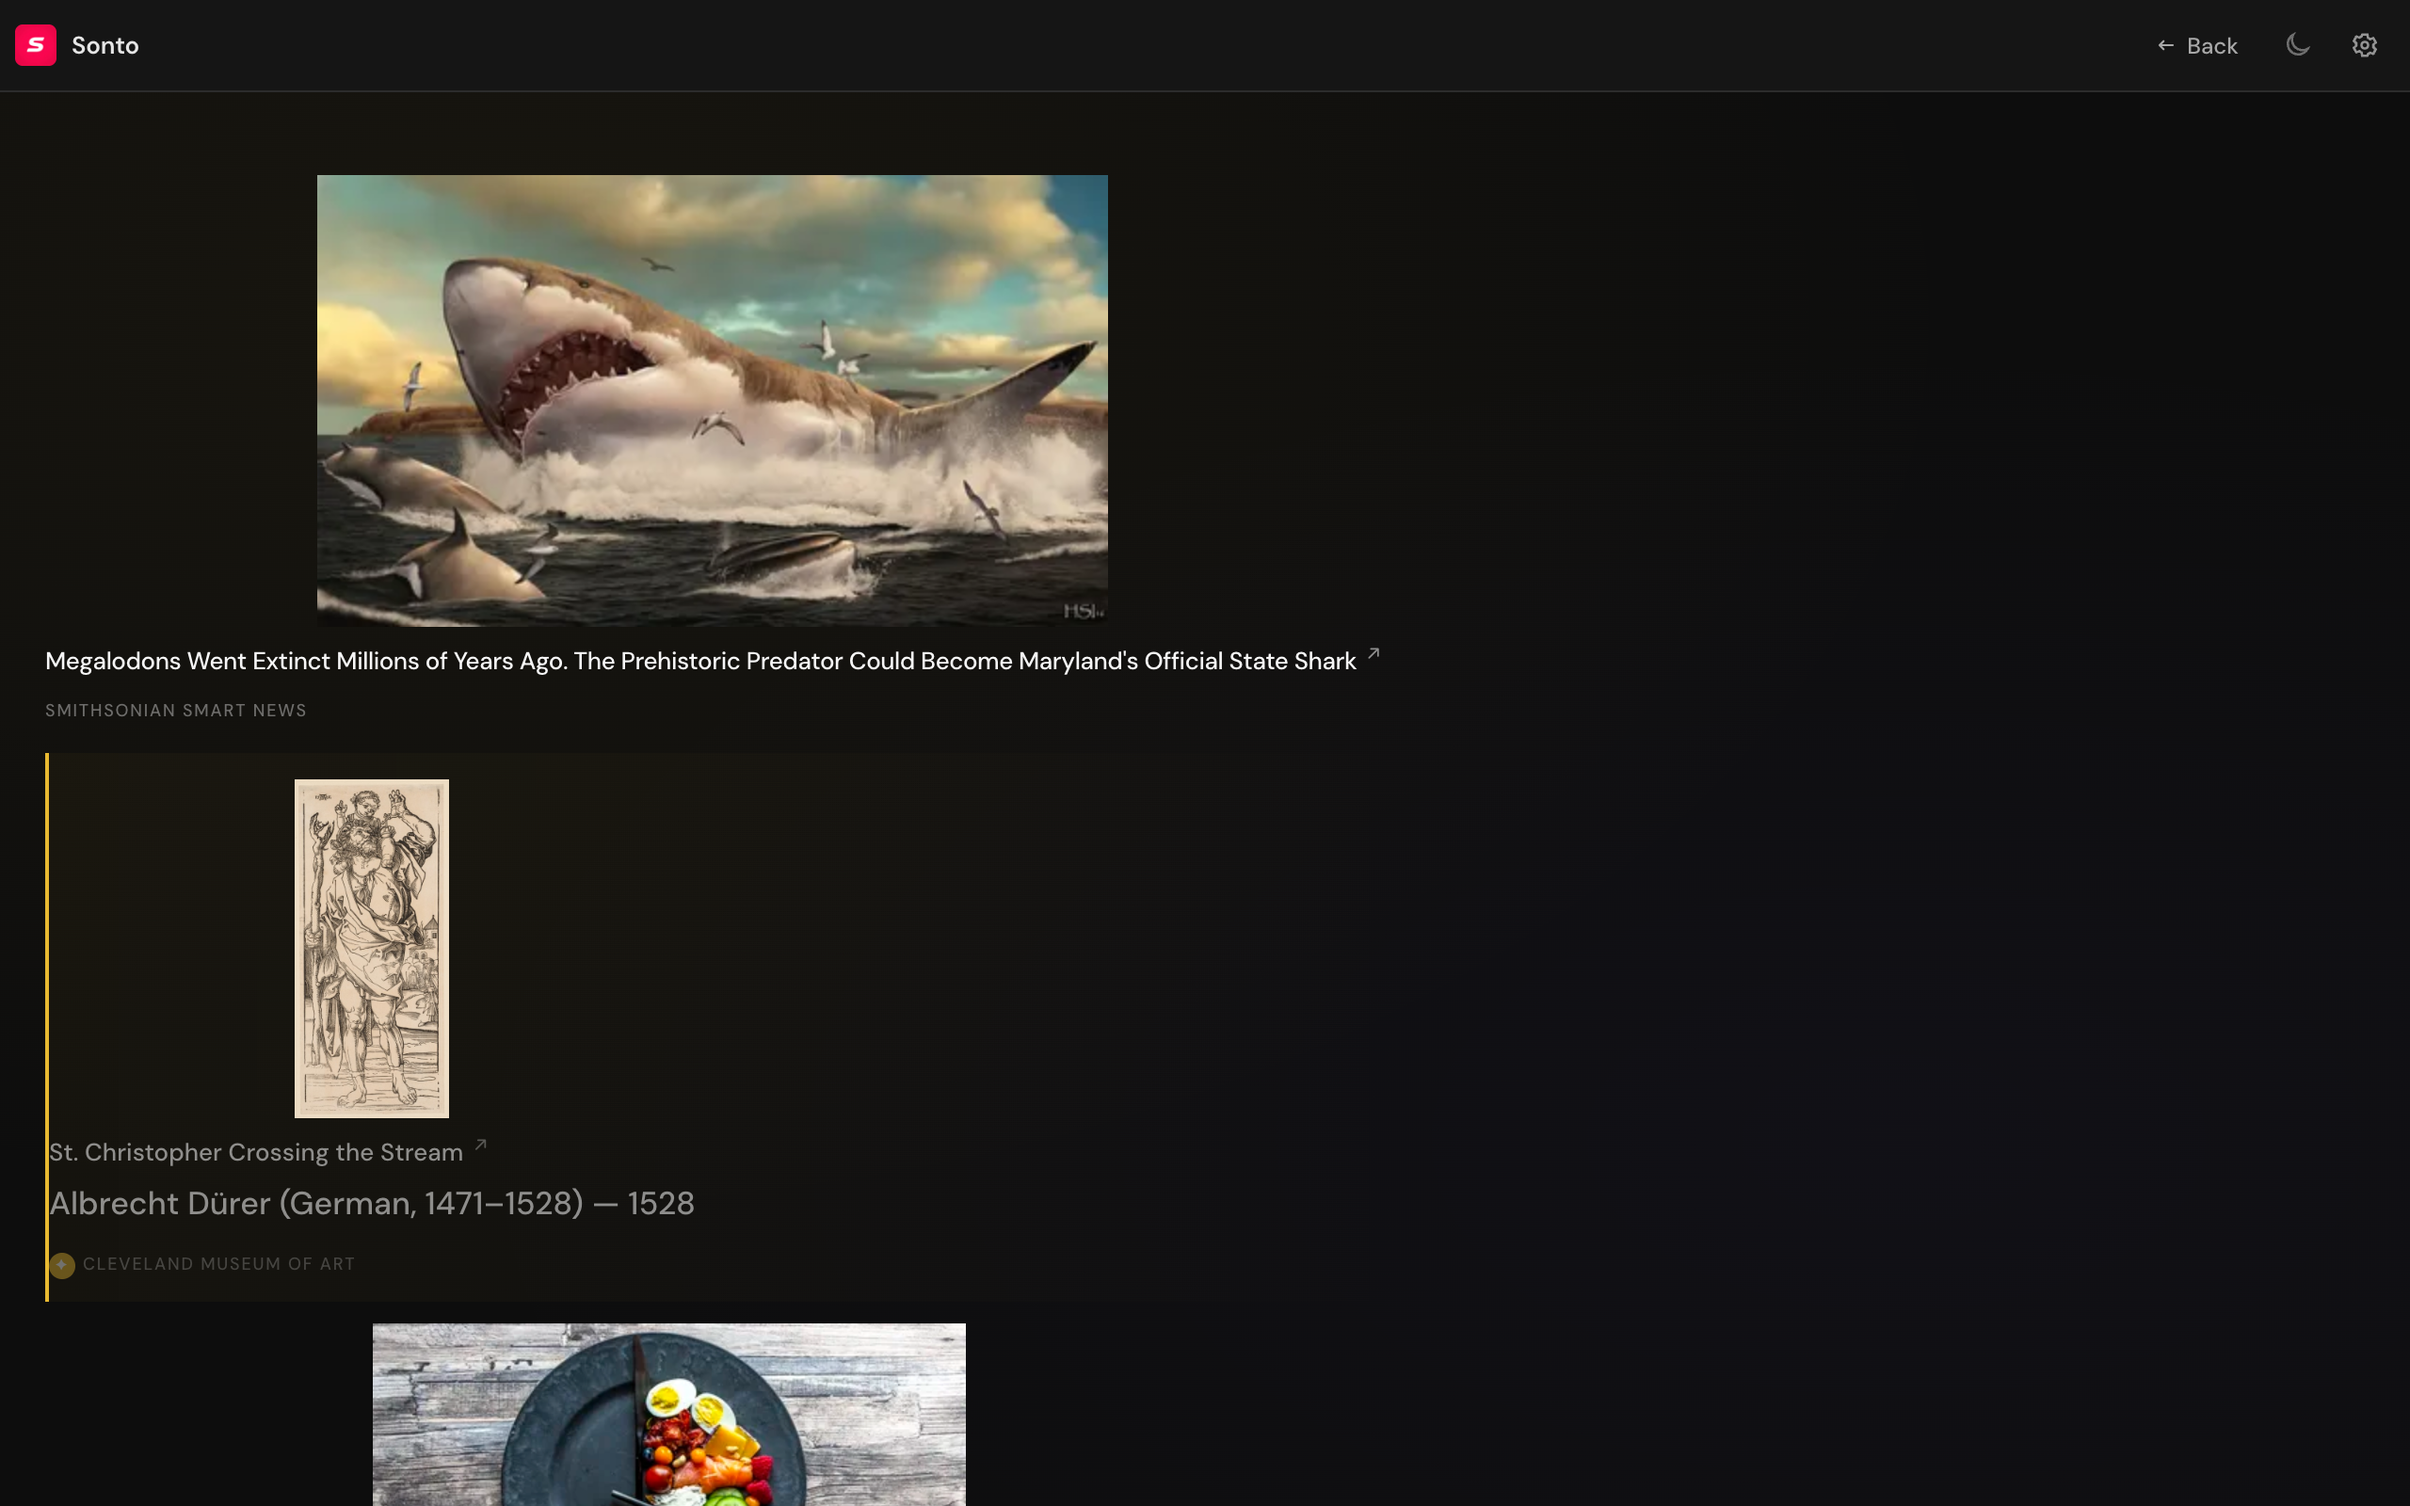
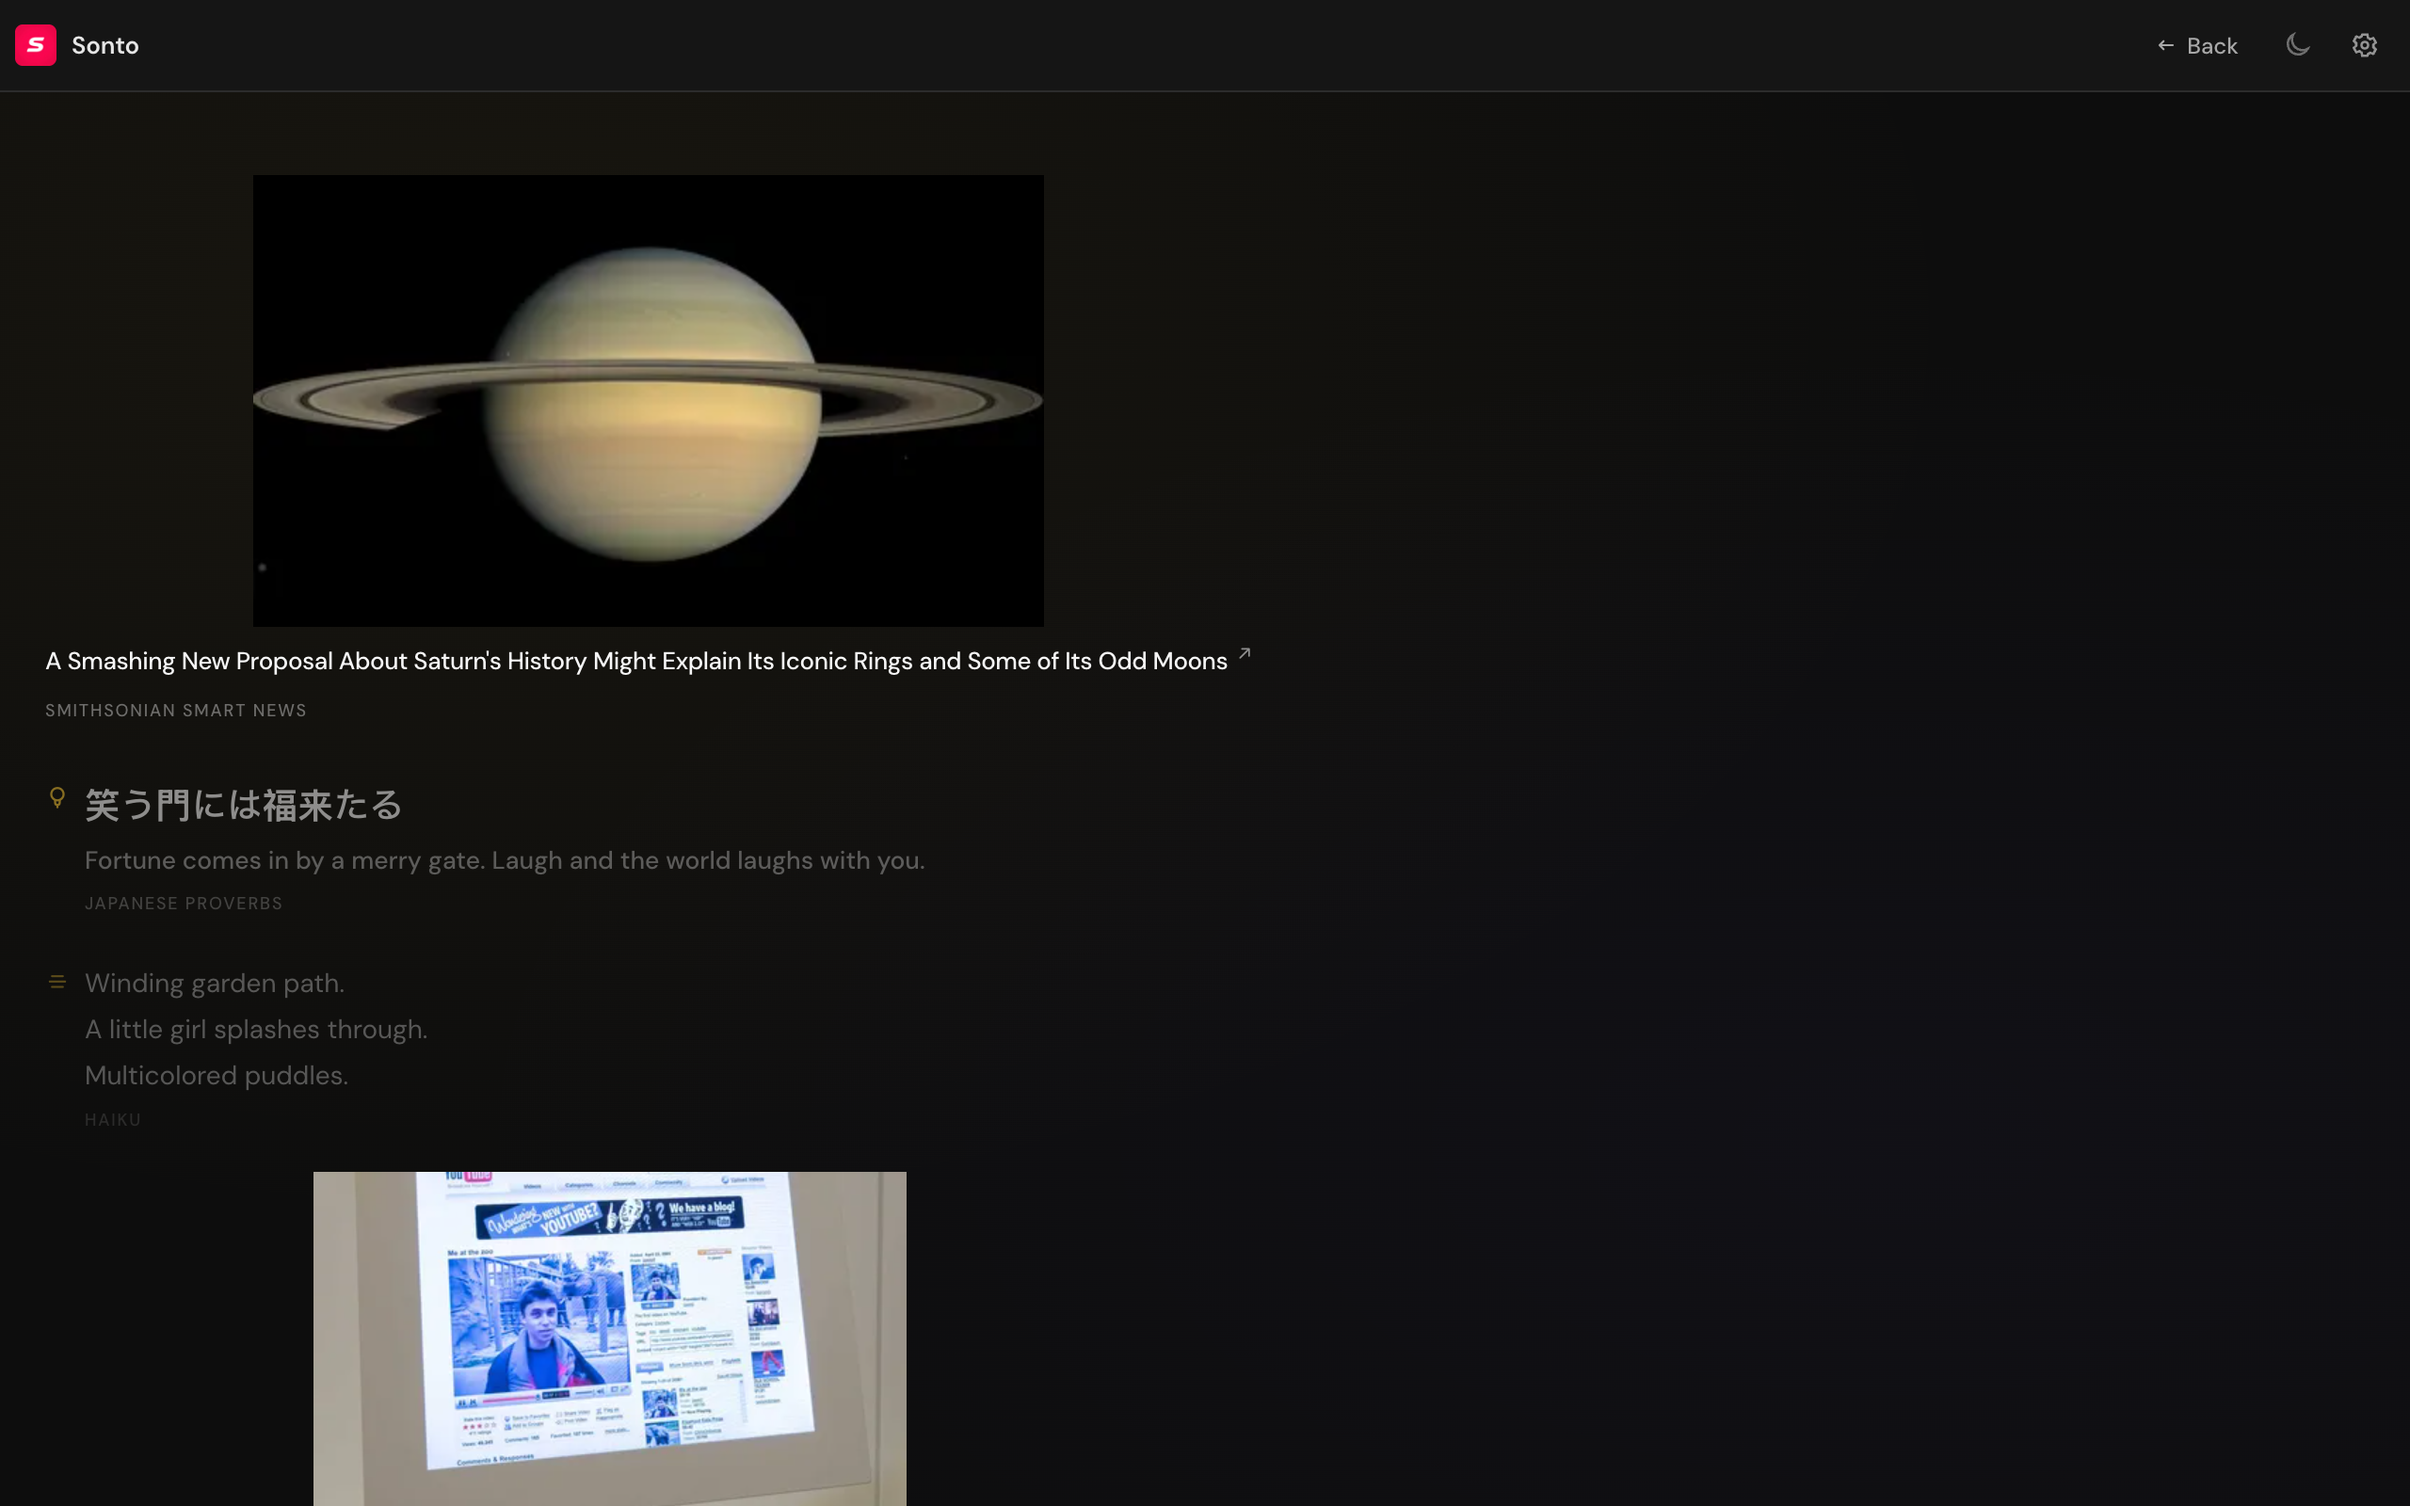
feat: richer demo clips with tags, remove zen bubble gold border
Sample clips now include varied tags (quotes, typescript, git, etc).
Removed golden vertical line from user/surprise zen bubbles for cleaner look.

Changed region(s): [[0.0312, 0.0938, 0.5625, 0.4688], [0.0, 0.5, 0.4062, 1.0]]

diff --git a/test/e2e/screenshots.test.ts b/test/e2e/screenshots.test.ts
@@ -43,7 +43,7 @@ async function addSampleClips(page: Page): Promise<void> {
         contentType: 'text',
         source: 'manual',
         origin: 'manual',
-        tags: [],
+        tags: ['quotes', 'inspiration'],
         createdAt: now - 3600000,
         pinned: true,
         zenified: false,
@@ -55,7 +55,7 @@ async function addSampleClips(page: Page): Promise<void> {
         contentType: 'code',
         source: 'clipboard',
         origin: 'clipboard',
-        tags: [],
+        tags: ['typescript', 'utils'],
         createdAt: now - 7200000,
         pinned: false,
         zenified: false,
@@ -69,7 +69,7 @@ async function addSampleClips(page: Page): Promise<void> {
         origin: 'clipboard',
         url: 'https://github.com/artttj/sonto',
         title: 'artttj/sonto - GitHub',
-        tags: [],
+        tags: ['project'],
         createdAt: now - 10800000,
         pinned: false,
         zenified: false,
@@ -81,7 +81,7 @@ async function addSampleClips(page: Page): Promise<void> {
         contentType: 'text',
         source: 'manual',
         origin: 'manual',
-        tags: [],
+        tags: ['quotes'],
         createdAt: now - 14400000,
         pinned: false,
         zenified: false,
@@ -93,7 +93,7 @@ async function addSampleClips(page: Page): Promise<void> {
         contentType: 'code',
         source: 'clipboard',
         origin: 'clipboard',
-        tags: [],
+        tags: ['npm', 'dev'],
         createdAt: now - 18000000,
         pinned: false,
         zenified: false,
@@ -117,7 +117,7 @@ async function addSampleClips(page: Page): Promise<void> {
         contentType: 'text',
         source: 'manual',
         origin: 'manual',
-        tags: [],
+        tags: ['quotes', 'engineering'],
         createdAt: now - 25200000,
         pinned: false,
         zenified: false,
@@ -129,8 +129,32 @@ async function addSampleClips(page: Page): Promise<void> {
         contentType: 'code',
         source: 'clipboard',
         origin: 'clipboard',
-        tags: [],
+        tags: ['javascript', 'api'],
         createdAt: now - 28800000,
+        pinned: false,
+        zenified: false,
+      },
+      {
+        id: `${now}-9`,
+        type: 'clip',
+        content: 'Any fool can write code that a computer can understand. Good programmers write code that humans can understand. — Martin Fowler',
+        contentType: 'text',
+        source: 'manual',
+        origin: 'manual',
+        tags: ['quotes', 'clean code'],
+        createdAt: now - 32400000,
+        pinned: false,
+        zenified: false,
+      },
+      {
+        id: `${now}-10`,
+        type: 'clip',
+        content: 'git checkout -b feature/my-new-feature && git push -u origin feature/my-new-feature',
+        contentType: 'code',
+        source: 'clipboard',
+        origin: 'clipboard',
+        tags: ['git', 'workflow'],
+        createdAt: now - 36000000,
         pinned: false,
         zenified: false,
       },

diff --git a/src/sidebar/styles/60-components.css b/src/sidebar/styles/60-components.css
@@ -482,12 +482,7 @@
 
 /* Surprise bubble highlight */
 .zen-bubble--surprise {
-  border-left: 2px solid var(--c-accent);
   background: linear-gradient(to right, rgba(232,185,49,0.04) 0%, rgba(232,185,49,0.02) 30%, transparent 60%);
-  padding-left: 10px;
-}
-.zen-bubble--surprise.zen-bubble.spotlight {
-  padding-left: 10px;
 }
 
 /* Cosmos save button */
@@ -1291,9 +1286,7 @@
 }
 
 .zen-bubble--user {
-  border-left: 2px solid var(--c-accent);
   background: linear-gradient(to right, rgba(232,185,49,0.05), transparent);
-  padding-left: 10px;
 }
 
 .zen-bubble--user .zen-source {

diff --git a/src/sidebar/sidebar.css b/src/sidebar/sidebar.css
@@ -2491,9 +2491,7 @@ html, body {
 }
 
 .zen-bubble--user {
-  border-left: 2px solid var(--c-accent);
   background: linear-gradient(to right, rgba(232,185,49,0.06) 0%, rgba(232,185,49,0.03) 30%, transparent 60%);
-  padding-left: 10px;
 }
 
 .zen-bubble--user .zen-source {
